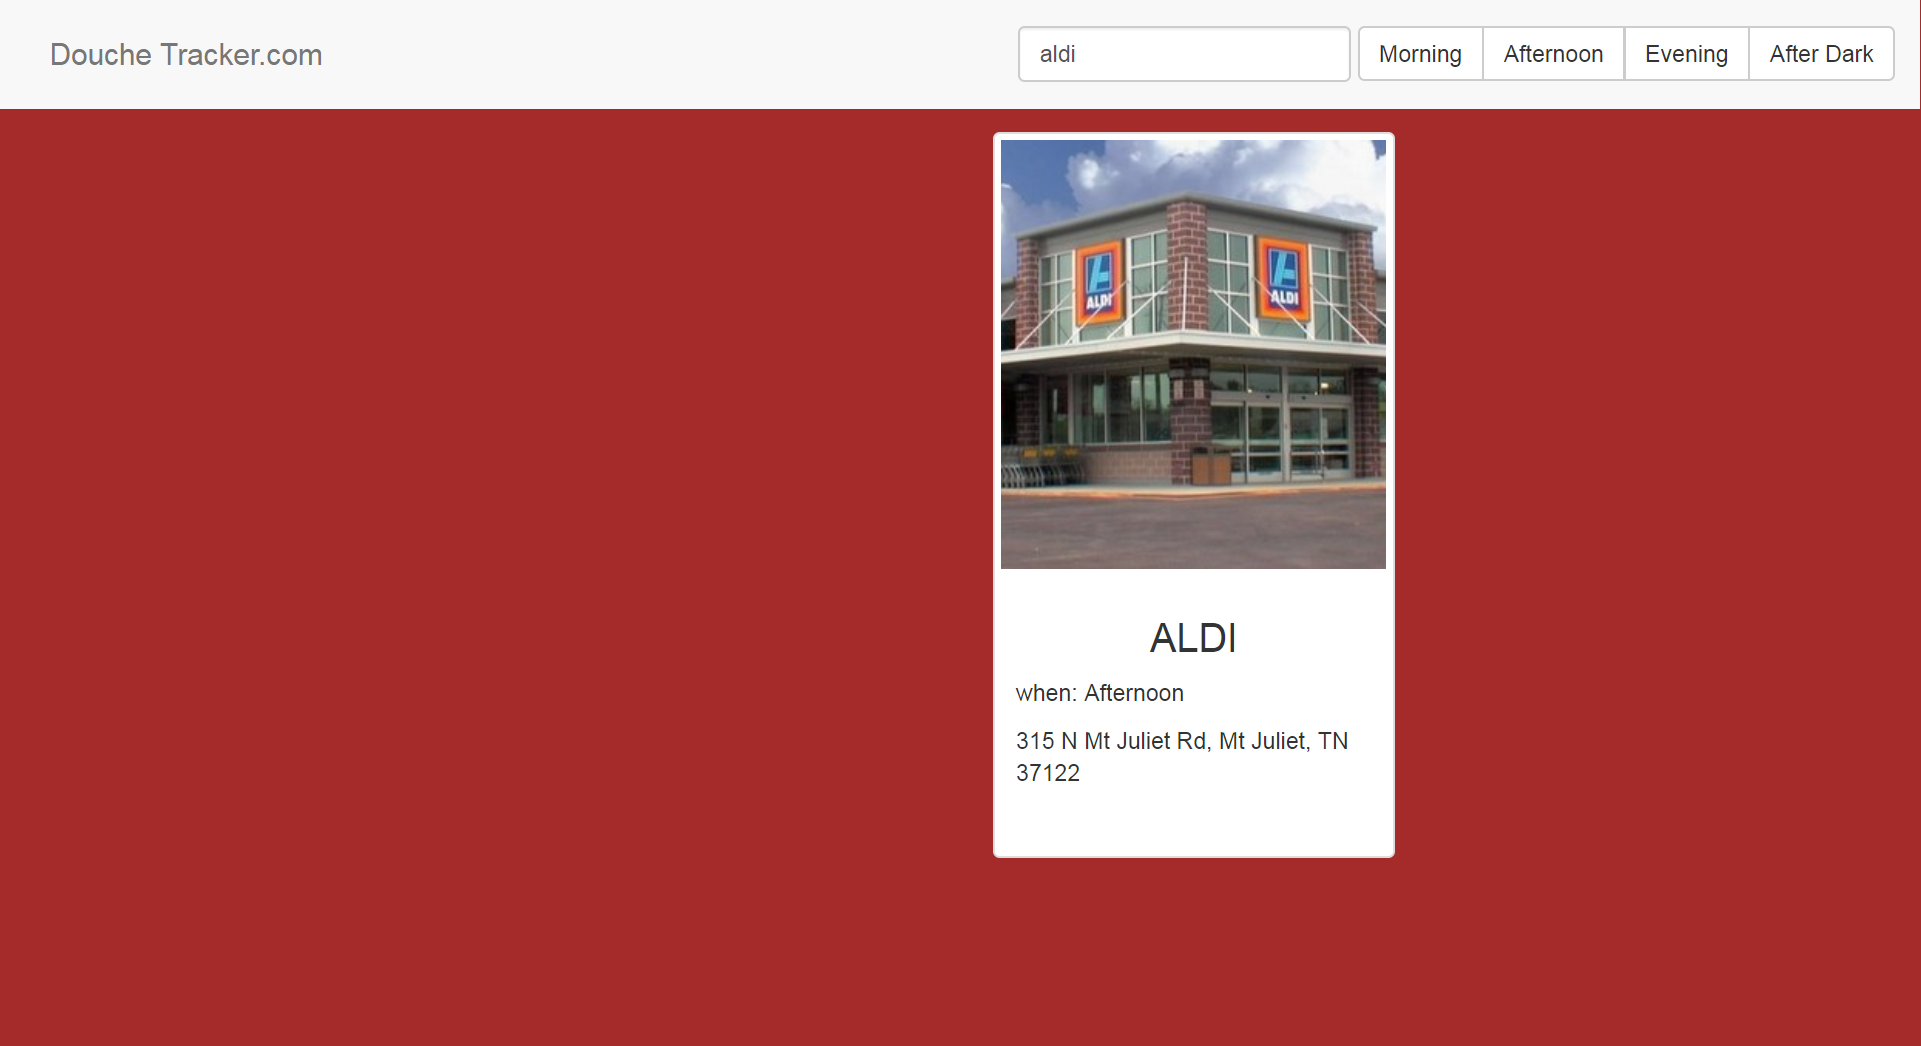
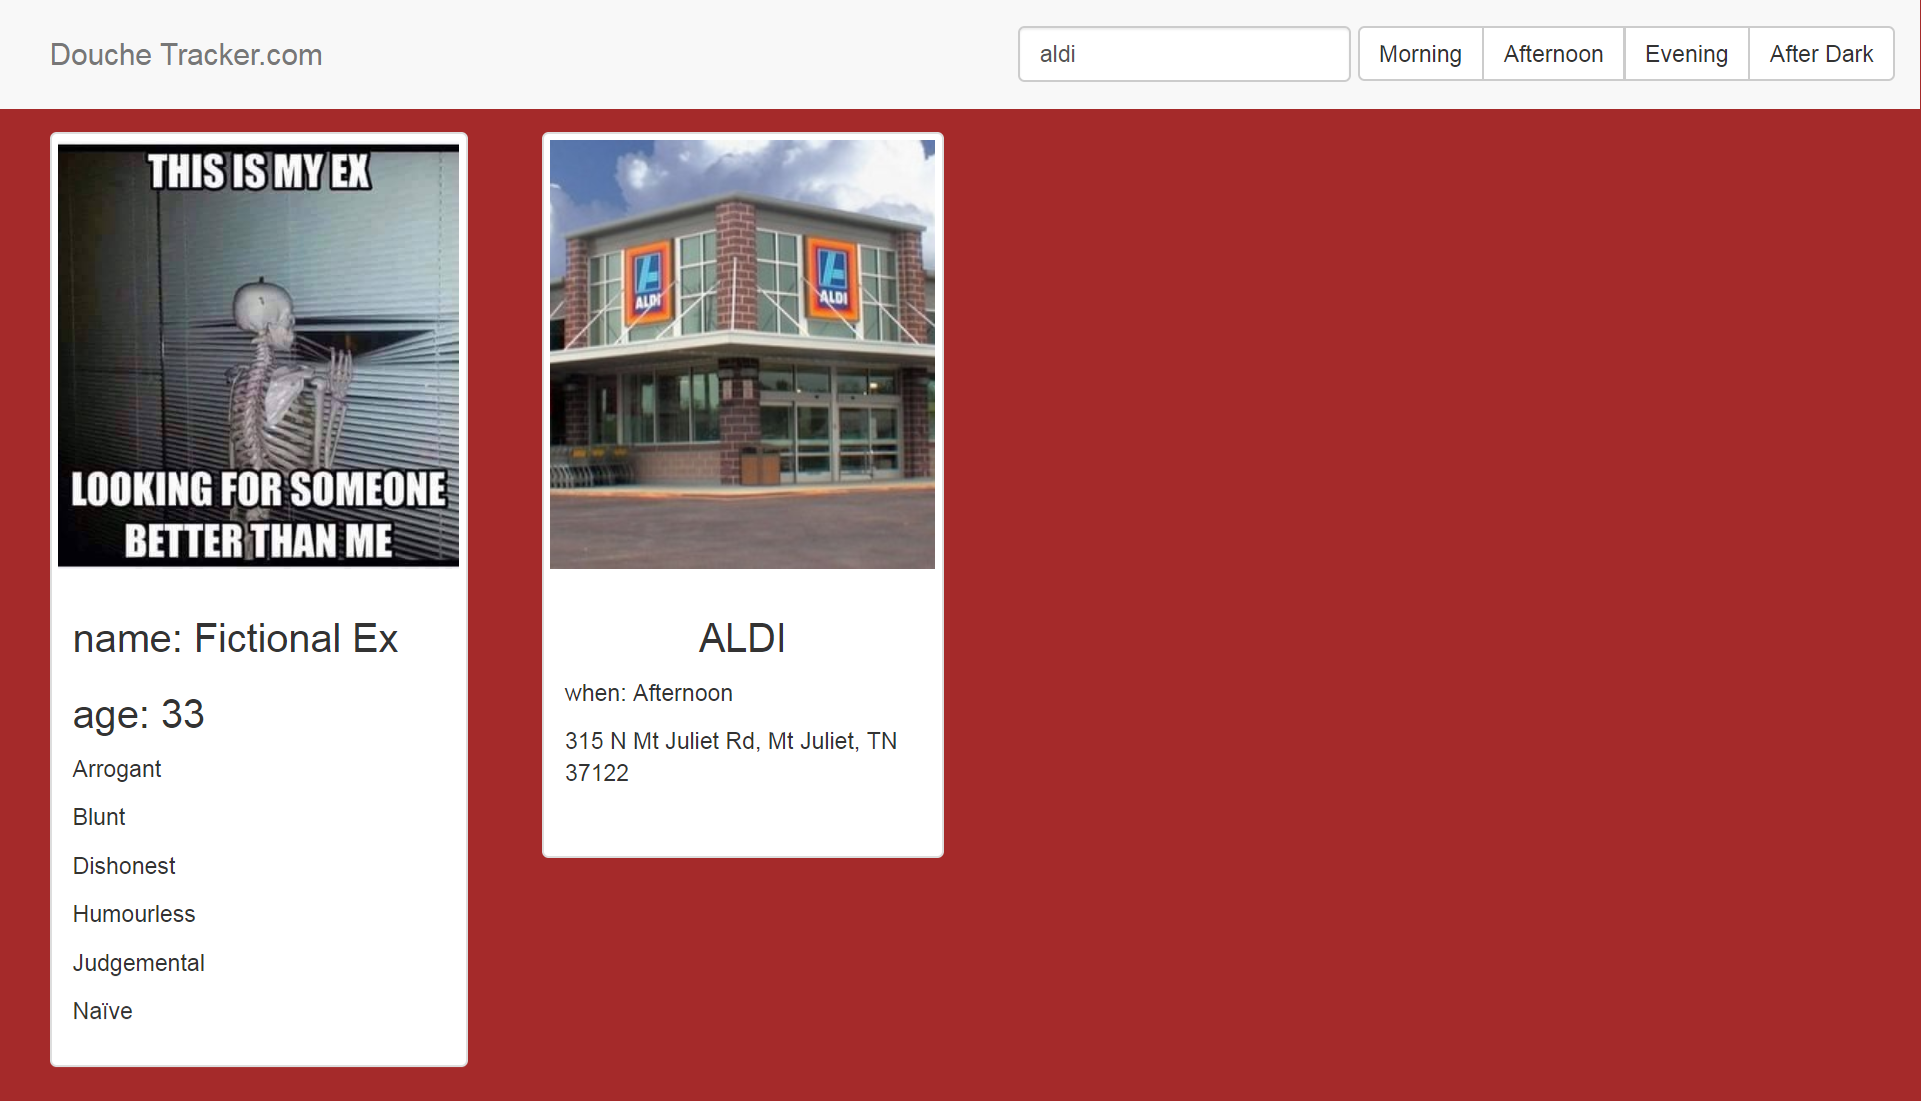
changed one screenshot, in events.js changed class to .card

diff --git a/javascripts/events.js b/javascripts/events.js
@@ -8,13 +8,13 @@ const searchCards = (e) => {
   const input = $('.input-box').val();
   console.log(input);
   if (e.which === 13) {
-    $(`.thumbnail:not(:icontains(${input}))`).hide();
+    $(`.card:not(:icontains(${input}))`).hide();
     // function () {
     // $(this).toggle($(this).text().toLowerCase().indexOf(input) > -1);
     // });
   };
   if (input === '') {
-    console.log($(`.thumbnail`).show());
+    console.log($(`.card`).show());
   };
 };
 

diff --git a/README.md b/README.md
@@ -2,16 +2,16 @@
 
 ## Description
 1. Page lists an ex and all comprehensive list of all locations that the ex frequents.
-1. There is a search bar that on keypress filters locations cards.
+1. There is a search bar that on keypress filters locations cards. When text is deleted in the search bar, all cards show up again.
 1. There are 4 button options for "time of day." (Options: Morning, Afternoon, Evening, After Dark). These buttons filters the results down to each location that has a "Time That Ex Normally Goes" corresponding to the button clicked.There is a Show All button to unfilter the results.
 
 ## Screenshot
 #### Page view on load
-![WebPage]()
+![WebPage](https://raw.githubusercontent.com/RitaSyed/exTracker/master/screenshots/Page%20view%20on%20load.png)
 #### Page view when something is searched
 ![WebPage]()
 #### Page view when morning button is clicked
-![WebPage]()
+![WebPage](https://raw.githubusercontent.com/RitaSyed/exTracker/master/screenshots/Page%20view%20when%20morning%20button%20is%20clicked.png)
 
 
 ## Technologies Used:
